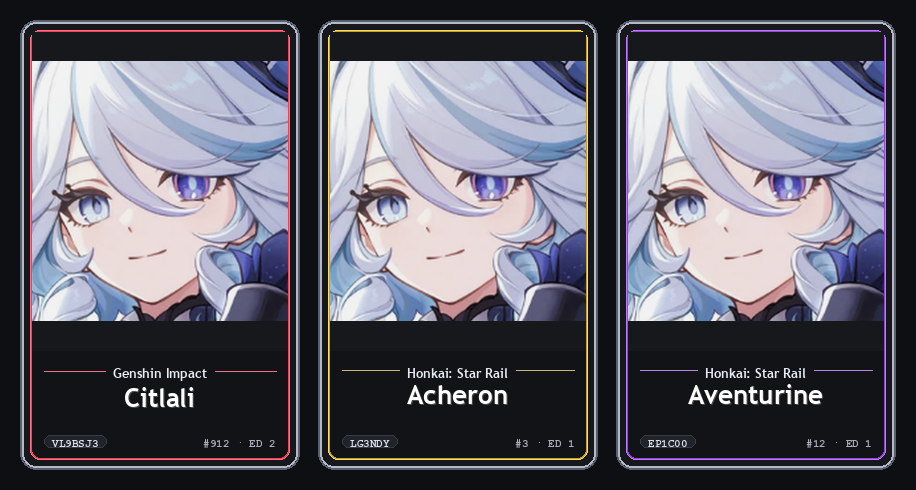
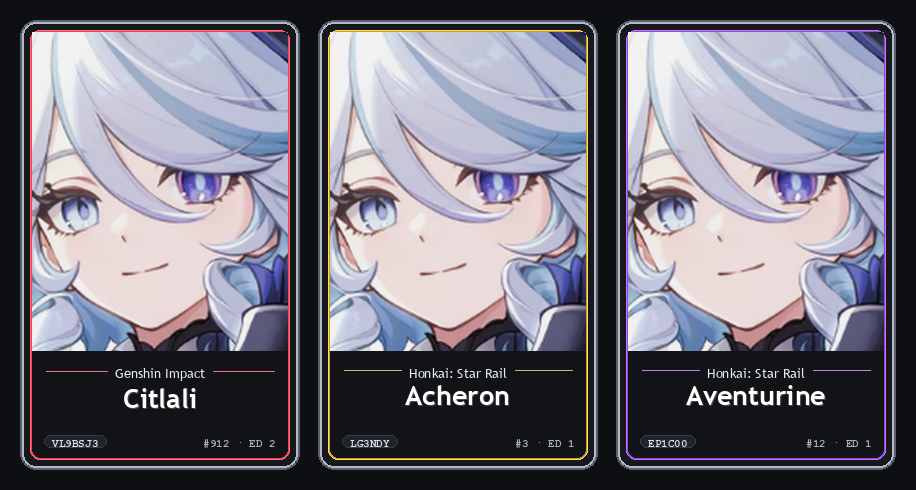
Refactor renderer.py to match exact redesign mockup and remove all legacy card code

diff --git a/utils/renderer.py b/utils/renderer.py
@@ -1,16 +1,14 @@
 import io
 import os
-import math
 import asyncio
 import aiohttp
-from PIL import Image, ImageDraw, ImageFont, ImageEnhance, ImageFilter
-from config import RARITY_COLORS
+from PIL import Image, ImageDraw, ImageFont, ImageEnhance
 
 # ==========================================
 # 🔤 FONT LOADING
 # ==========================================
 def _load_font(size, bold=True):
-    """Load clean bold fonts for card text."""
+    """Load clean bold fonts for card title and series text."""
     if bold:
         font_paths = [
             "/System/Library/Fonts/Supplemental/Trebuchet MS Bold.ttf",
@@ -53,13 +51,13 @@ def _load_monospace_font(size):
                 continue
     return _load_font(size, bold=True)
 
-# Pre-load clean fonts matching the user's design screenshot
-FONT_TITLE_DROP = _load_font(26, bold=True)
-FONT_SERIES_DROP = _load_font(13, bold=True)
+# Pre-load clean, prominent fonts matching the user's redesign mockup
+FONT_TITLE_DROP = _load_font(27, bold=True)
+FONT_SERIES_DROP = _load_font(13, bold=False)
 FONT_BADGE_DROP = _load_monospace_font(11)
 
-FONT_TITLE_SINGLE = _load_font(32, bold=True)
-FONT_SERIES_SINGLE = _load_font(15, bold=True)
+FONT_TITLE_SINGLE = _load_font(33, bold=True)
+FONT_SERIES_SINGLE = _load_font(15, bold=False)
 FONT_BADGE_SINGLE = _load_monospace_font(13)
 
 # Shared aiohttp session
@@ -90,30 +88,19 @@ async def fetch_image(session, url):
     return img
 
 def fit_artwork_image(img: Image.Image, target_w: int, target_h: int) -> Image.Image:
-    """Scales character image proportionally without zooming in or cropping out character details."""
+    """Scales artwork image proportionally top-aligned so it fills the viewport edge-to-edge without distortion."""
     orig_w, orig_h = img.size
     if orig_w == 0 or orig_h == 0:
         return img.resize((target_w, target_h), Image.Resampling.LANCZOS)
     
-    scale_w = target_w / orig_w
-    scale_h = target_h / orig_h
-    scale = min(scale_w, scale_h)
-    
-    new_w = max(1, int(orig_w * scale))
-    new_h = max(1, int(orig_h * scale))
+    scale = max(target_w / orig_w, target_h / orig_h)
+    new_w = max(target_w, int(orig_w * scale))
+    new_h = max(target_h, int(orig_h * scale))
     resized = img.resize((new_w, new_h), Image.Resampling.LANCZOS)
     
-    canvas = Image.new("RGBA", (target_w, target_h), (22, 24, 28, 255))
-    left = (target_w - new_w) // 2
-    top = (target_h - new_h) // 2
-    canvas.paste(resized, (left, top))
-    return canvas
-
-def fit_top_crop_image(img: Image.Image, target_w: int, target_h: int) -> Image.Image:
-    return fit_artwork_image(img, target_w, target_h)
-
-def fit_and_crop_image(img: Image.Image, target_w: int, target_h: int) -> Image.Image:
-    return fit_artwork_image(img, target_w, target_h)
+    left = (new_w - target_w) // 2
+    top = 0  # Align top center so character head and face are perfectly preserved
+    return resized.crop((left, top, left + target_w, top + target_h))
 
 def _round_corners(img: Image.Image, radius: int) -> Image.Image:
     """Apply rounded corners to an RGBA image using an alpha mask."""
@@ -125,24 +112,24 @@ def _round_corners(img: Image.Image, radius: int) -> Image.Image:
     return out
 
 # ==========================================
-# 🖼 DRAW SINGLE CARD (Matching Redesign)
+# 🖼 DRAW CARD (Exact Match to User Mockup)
 # ==========================================
 def draw_card_on_canvas(canvas: Image.Image, x: int, y: int, card_w: int, card_h: int,
                         raw_img: Image.Image, card_data: dict, font_title, font_series, font_badge):
-    """Draws a card matching the user's exact redesign screenshot without top-right rarity pill."""
+    """Draws a card matching the user's mockup: metallic outer frame, gold accent inner border, dark bottom container."""
     draw = ImageDraw.Draw(canvas)
     rarity_str = str(card_data.get("rarity", "Legendary")).lower()
     
-    # 1. Outer Metallic Frame with Rarity Accent Border
+    # 1. Metallic Outer Frame with Rounded Corners & Metallic Bevel
     frame_r = 16
     frame_img = Image.new("RGBA", (card_w, card_h), (0, 0, 0, 0))
     f_draw = ImageDraw.Draw(frame_img)
     
-    # Outer Metallic Fill
+    # Outer Metallic Fill & Bevel Highlights
     f_draw.rounded_rectangle([0, 0, card_w - 1, card_h - 1], radius=frame_r, fill=(28, 30, 36), outline=(90, 95, 110), width=2)
     f_draw.rounded_rectangle([2, 2, card_w - 3, card_h - 3], radius=frame_r - 2, fill=(22, 24, 28), outline=(180, 185, 200), width=2)
 
-    # 2. Inner Viewport Box Accent Colors based on Rarity (Mythic = Red/Crimson Glow, Legendary = Gold)
+    # 2. Inner Accent Colors based on Rarity Tier
     if "mythic" in rarity_str:
         accent_outer = (245, 65, 85)
         accent_inner = (255, 110, 130)
@@ -164,7 +151,7 @@ def draw_card_on_canvas(canvas: Image.Image, x: int, y: int, card_w: int, card_h
     view_x, view_y = pad, pad
     view_w, view_h = card_w - pad * 2, card_h - pad * 2
     
-    # Inner Viewport Accent Border
+    # Inner Viewport Accent Border (2px Gold / Accent Line framing inner card content)
     f_draw.rounded_rectangle([view_x - 2, view_y - 2, view_x + view_w + 1, view_y + view_h + 1],
                              radius=10, fill=accent_outer, outline=accent_inner, width=1)
     f_draw.rounded_rectangle([view_x, view_y, view_x + view_w - 1, view_y + view_h - 1],
@@ -172,17 +159,16 @@ def draw_card_on_canvas(canvas: Image.Image, x: int, y: int, card_w: int, card_h
 
     canvas.paste(frame_img, (x, y), frame_img)
     
-    # Absolute Inner Content Coordinates
     content_x = x + view_x
     content_y = y + view_y
     content_w = view_w
     content_h = view_h
 
-    # 3. Artwork Section (Occupies Top ~75% of viewport)
+    # 3. Artwork Viewport (Occupies top ~75% of inner content box)
     art_h = int(content_h * 0.75)
     fitted_art = fit_artwork_image(raw_img, content_w, art_h)
     
-    # Apply Top Rounded Corners to Artwork
+    # Apply Rounded Top Corners to Artwork
     art_mask = Image.new("L", (content_w, art_h), 255)
     art_mask_draw = ImageDraw.Draw(art_mask)
     art_mask_draw.rectangle([0, 8, content_w, art_h], fill=255)
@@ -193,16 +179,15 @@ def draw_card_on_canvas(canvas: Image.Image, x: int, y: int, card_w: int, card_h
     # 4. Bottom Dark Container Section
     bot_y = content_y + art_h
 
-    # Accent Line with Series Name Centered Over It
+    # Series Name flanked by horizontal accent divider lines
     series_name = card_data.get("series", card_data.get("series_name", "Genshin Impact"))[:24]
     s_bbox = font_series.getbbox(series_name)
     s_tw = s_bbox[2] - s_bbox[0] if s_bbox else len(series_name) * 8
     s_th = s_bbox[3] - s_bbox[1] if s_bbox else 14
 
     sy = bot_y + 14
-    # Horizontal accent lines flanking the series name
     line_y = sy + s_th // 2
-    margin = 12
+    margin = 14
     left_line_x1 = content_x + margin
     left_line_x2 = content_x + (content_w - s_tw) // 2 - 8
     right_line_x1 = content_x + (content_w + s_tw) // 2 + 8
@@ -216,7 +201,7 @@ def draw_card_on_canvas(canvas: Image.Image, x: int, y: int, card_w: int, card_h
     sx = content_x + (content_w - s_tw) // 2
     draw.text((sx, sy), series_name, fill=(230, 235, 245), font=font_series)
 
-    # Character Name (Large Bold Title Centered Below Series)
+    # Character Name (Prominent bold title centered below series name)
     char_name = card_data.get("name", card_data.get("character_name", "Citlali"))[:20]
     c_bbox = font_title.getbbox(char_name)
     c_tw = c_bbox[2] - c_bbox[0] if c_bbox else len(char_name) * 14
@@ -226,7 +211,7 @@ def draw_card_on_canvas(canvas: Image.Image, x: int, y: int, card_w: int, card_h
     draw.text((nx + 1, ny + 1), char_name, fill=(0, 0, 0, 180), font=font_title)
     draw.text((nx, ny), char_name, fill=(255, 255, 255), font=font_title)
 
-    # 5. Bottom Row Badges: Left Pill Code Badge, Right Print/Edition Text
+    # 5. Bottom Row: Left Pill Code Badge & Right Print/Edition Text
     card_code = str(card_data.get("code", "VL9BSJ3")).upper()
     mint_val = card_data.get("temp_mint", card_data.get("mint_number", 912))
     ed_val = card_data.get("edition", 2)
@@ -260,7 +245,7 @@ def draw_card_on_canvas(canvas: Image.Image, x: int, y: int, card_w: int, card_h
 # 🃏 RENDER DROP CARDS (3 side-by-side)
 # ==========================================
 async def render_cards_image(cards: list, show_quality: bool = False) -> io.BytesIO:
-    """Renders 3 cards side-by-side for /drop."""
+    """Renders 3 cards side-by-side for /drop matching the exact redesign mockup."""
     card_w, card_h = 280, 450
     gap = 18
     pad = 20
@@ -290,7 +275,7 @@ async def render_cards_image(cards: list, show_quality: bool = False) -> io.Byte
 # 🃏 RENDER SINGLE CARD (view/lookup)
 # ==========================================
 async def render_single_card(card_data: dict) -> io.BytesIO:
-    """Renders a single card for /card."""
+    """Renders a single card for /card matching the exact redesign mockup."""
     card_w, card_h = 320, 500
     pad = 20
 
